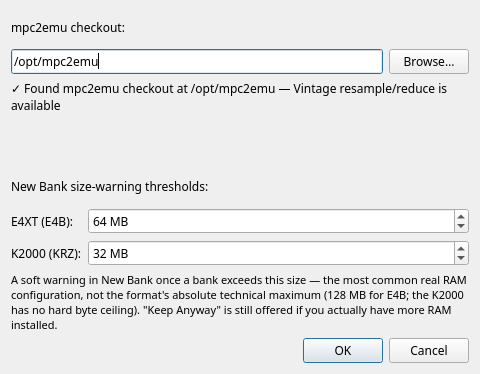
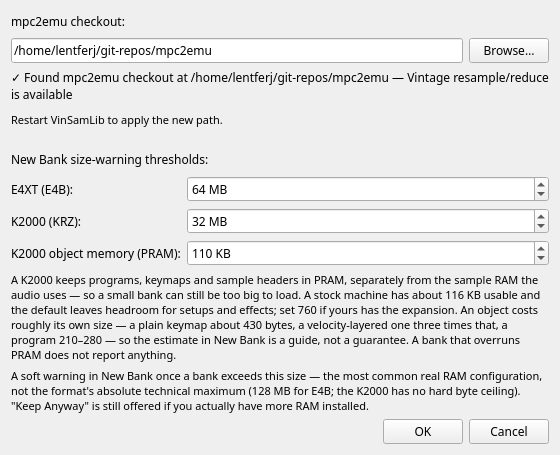
Surface the ROM-reference advisory, and document what PRAM actually costs
The advisory added earlier today was UNREACHABLE: assemble() filled
warnings_out and nothing in the app ever passed it. A warning no user can
see is worse than none, because it reads as covered. New Bank's meter now
computes it alongside PRAM and shows

    1748 ROM refs ~ 10m46s to load

against the ~11 minutes actually observed. Shown and never blocking:
references to ROM are legitimate and whole categories of bank are built
from them.

CORRECTION, from the object list Jan photographed: an object costs
roughly its OWN SIZE, not a per-type constant. The machine's own figures
match each object's block length minus 4-6 bytes on all eight visible --
a plain keymap 430, a velocity-layered one 1332, programs 224-272. The
Settings hint said "688 bytes a keymap, 272 a program, 84 a sample" as
though those were the costs; 688 is one keymap's cost, the one mpc2emu's
writer happens to emit. The estimate stays constant-based for now (it
matches upstream and is close enough to warn on) but the hint no longer
states it as fact.

Documentation, per this project's rule that a feature is not done until
the README names it:

* Settings gains a "K2000 object memory (PRAM)" section -- what PRAM is,
  why the MB threshold cannot express it, the 110 KB default and when to
  set 760.
* New Bank documents both KRZ-only meter readouts.
* The hard ceiling is 800 objects per type, not "1000 programs", in both
  places that quoted the old figure.
[…]

diff --git a/vinsamlib/ui/bank_pane.py b/vinsamlib/ui/bank_pane.py
@@ -1157,12 +1157,13 @@ class BankPane(QWidget):
             # inside the MB figure can still be unloadable. Read the counts
             # back off the assembled bytes rather than guessing from _items --
             # one preset can pull in many keymaps, and keymaps dominate.
-            pram_used = pram_budget = 0
+            pram_used = pram_budget = rom_refs = 0
             try:
                 built = krz.parse_bytes(data, "meter")
                 pram_used = krz.bank_pram_bytes(
                     len(built.samples), len(built.keymaps), len(built.programs))
                 pram_budget = krz.pram_budget_bytes(self._config.krz_pram_kb)
+                rom_refs = krz.rom_keymap_refs(built)
             except Exception:
                 pass
             over_pram = bool(pram_budget) and pram_used > pram_budget
@@ -1170,6 +1171,14 @@ class BankPane(QWidget):
             if pram_budget:
                 meter += (f"  ·  PRAM {pram_used // 1024} K / "
                           f"{pram_budget // 1024} K")
+            # References the bank does not contain are free in bytes and slow
+            # to load -- about 0.37 s each, measured. Shown, never blocking:
+            # they are legitimate, and whole categories of bank are built from
+            # them. Only worth saying once the wait becomes noticeable.
+            if rom_refs >= krz.ROM_REF_ADVISORY:
+                secs = int(rom_refs * 0.37)
+                meter += (f"  ·  {rom_refs} ROM refs ≈ {secs // 60}m{secs % 60:02d}s "
+                          f"to load")
             self._meter_label.setText(meter)
             over = (len(data) > limit_bytes or n > _KRZ_MAX_PRESETS or over_pram)
             if n > _KRZ_MAX_PRESETS:

diff --git a/tools/make_screenshots.py b/tools/make_screenshots.py
@@ -264,8 +264,25 @@ def shot_favourites(app, win) -> None:
     dialog.close()
 
 
-ALL = {"02_new_bank": shot_new_bank, "12_bank_placement": shot_placement,
-       "13_favourites": shot_favourites}
+def shot_settings(app, win) -> None:
+    """06_settings -- the dialog, including the two RAM limits and PRAM.
+
+    Added to the generator because it went stale for the same reason
+    02_new_bank did: a row was added to the dialog and the picture in the
+    README went on showing the old one. The dialog is built from a Config, so
+    it needs no library and no staging -- but it must be given a Config that
+    is NEVER saved (see the guard in this file's _no_save).
+    """
+    from vinsamlib.ui.settings_dialog import SettingsDialog
+    dlg = SettingsDialog(win._config)
+    dlg.resize(560, dlg.sizeHint().height())
+    _settle(app)
+    _grab(dlg, "06_settings")
+    dlg.deleteLater()
+
+
+ALL = {"02_new_bank": shot_new_bank, "06_settings": shot_settings,
+       "12_bank_placement": shot_placement, "13_favourites": shot_favourites}
 
 
 def main(argv: list[str]) -> int:

diff --git a/vinsamlib/ui/settings_dialog.py b/vinsamlib/ui/settings_dialog.py
@@ -76,9 +76,11 @@ class SettingsDialog(QDialog):
             "separately from the sample RAM the audio uses — so a small bank "
             "can still be too big to load. A stock machine has about 116 KB "
             "usable and the default leaves headroom for setups and effects; "
-            "set 760 if yours has the expansion. Measured cost: 688 bytes a "
-            "keymap, 272 a program, 84 a sample. A bank that overruns PRAM "
-            "does not report anything, it hangs the machine.")
+            "set 760 if yours has the expansion. An object costs roughly its "
+            "own size — a plain keymap about 430 bytes, a velocity-layered one "
+            "three times that, a program 210–280 — so the estimate in New Bank "
+            "is a guide, not a guarantee. A bank that overruns PRAM does not "
+            "report anything.")
         pram_hint.setStyleSheet("color: palette(placeholdertext); font-size: 11px;")
         pram_hint.setWordWrap(True)
         layout.addWidget(pram_hint)

diff --git a/README.md b/README.md
@@ -108,11 +108,15 @@ waiting for the tree to be expanded down to it.
 The New Bank column accepts presets/programs dragged from anywhere in
 the library (or added via right-click), locks to whichever format the
 first one came from, and shows a live, real size/count meter — computed
-by actually assembling the selection, not an estimate. The E4XT's 128 MB / 1000-preset and the
-K2000's 1000-program limits are hard, format-technical ceilings, always
-enforced; a separate, lower, configurable-in-Settings byte threshold
-(default 64 MB E4B / 32 MB KRZ) warns earlier, once a bank likely
-exceeds *your own* hardware's actual RAM. Save the result directly to a
+by actually assembling the selection, not an estimate. The E4XT's 128 MB /
+1000-preset and the K2000's 800-objects-per-type limits are hard,
+format-technical ceilings, always enforced; a separate, lower,
+configurable-in-Settings byte threshold (default 64 MB E4B / 32 MB KRZ)
+warns earlier, once a bank likely exceeds *your own* hardware's actual
+RAM. For KRZ the meter shows two further figures the byte count cannot
+express — **PRAM**, the object memory a K2000 loads into, and the number
+of **references to ROM sounds**, which cost about 0.37 s each at load
+time. Save the result directly to a
 file, or queue it for image building.
 
 Samples inside the bank can also be **renamed** before it is written —
@@ -576,11 +580,25 @@ check itself is on).
 The **size/count meter** below the name field recomputes by actually
 assembling the current selection — not an estimate — debounced a
 quarter-second after your last change. It enforces the real hardware
-ceilings: **128 MB / 1000 presets** for E4B, **1000 programs** for KRZ,
-**256 preset slots** for EIII/ESI-32 (a preset needing more than one
+ceilings: **128 MB / 1000 presets** for E4B, **800 objects of each type**
+(programs, keymaps, samples — ids run 200–999, confirmed on hardware) for
+KRZ, **256 preset slots** for EIII/ESI-32 (a preset needing more than one
 linked layer can use more than one slot, so "256 presets" isn't quite
 the same as "256 slots" — see Known Limitations). Going over any of
 these pushes the meter red and disables **Save as…**.
+
+For KRZ it also reports two things the byte count says nothing about:
+
+* **`PRAM n K / m K`** — the object memory the bank needs against the
+  budget set in Settings (110 KB default). Objects live in PRAM,
+  separately from sample RAM, so a small bank can still be unloadable.
+  Over budget is treated like any other over-limit.
+* **`N ROM refs ≈ Xm YYs to load`**, once a bank makes 500 or more —
+  references to sounds in the machine's ROM rather than in the bank.
+  These are free in bytes and legitimate (whole categories of bank are
+  built from them), but the K2000 resolves each one at load: measured at
+  ~0.37 s apiece, so a bank making 1748 of them takes about eleven
+  minutes. Shown, never blocking.
 
 **Adding a preset that pushes you over the limit** shows a warning
 dialog with two choices: **Keep Anyway** (leave the new item in place,
@@ -1265,7 +1283,7 @@ numbers written to the bank.
 
 ### Settings
 
-![Settings dialog showing a found mpc2emu checkout with its live status line, and the New Bank size-warning threshold fields for E4B and KRZ](docs/screenshots/06_settings.png)
+![Settings dialog showing a found mpc2emu checkout with its live status line, the New Bank size-warning thresholds for E4B and KRZ, and the K2000 object-memory (PRAM) budget](docs/screenshots/06_settings.png)
 
 **File → Settings…** — the mpc2emu checkout path, with a live status
 line: whether the path itself is even a usable mpc2emu checkout, and
@@ -1280,13 +1298,28 @@ on the same E4XT hardware, via its backward-compatibility loader, so a
 third near-identical spinbox would say nothing new): the most common
 real E4XT/K2000 RAM configurations,
 *not* the format's own absolute technical maximum (128 MB for E4B; the
-K2000 has no hard byte ceiling at all, only its 1000-program limit —
-see New Bank above). This is a **soft**
+K2000 has no hard byte ceiling at all, only its 800-object-per-type
+limit — see New Bank above). This is a **soft**
 warning New Bank's size meter and over-limit dialog use to flag a bank
 that's probably too big for *your* actual hardware, before you find out
 the hard way — raise it if you genuinely have more RAM installed;
 "Keep Anyway" in the over-limit dialog still lets you build past it
 either way. Takes effect immediately on OK, no restart needed.
+
+**K2000 object memory (PRAM)** — a *second* limit for KRZ that the MB
+field above cannot express, so a bank can sit comfortably inside your
+size threshold and still be too big to load. A K2000 keeps its objects —
+programs, keymaps and sample headers — in PRAM, separately from the
+sample RAM the audio uses. An object costs roughly its own size: a plain
+keymap about 430 bytes, a velocity-layered one three times that, a
+program 210–280, a sample header 84.
+
+The default **110 KB** is a stock machine's ~116 KB usable less headroom
+for setups and effects, matching mpc2emu's own `--pram` default. Set
+**760** if your K2000 has the expansion. New Bank's meter shows
+`PRAM n K / m K` for a KRZ bank as you stage it, and warns through the
+same over-limit dialog as the size threshold. Measured on hardware
+2026-08-10; a bank that overruns PRAM does not report anything.
 
 ### Keyboard Shortcuts
 
